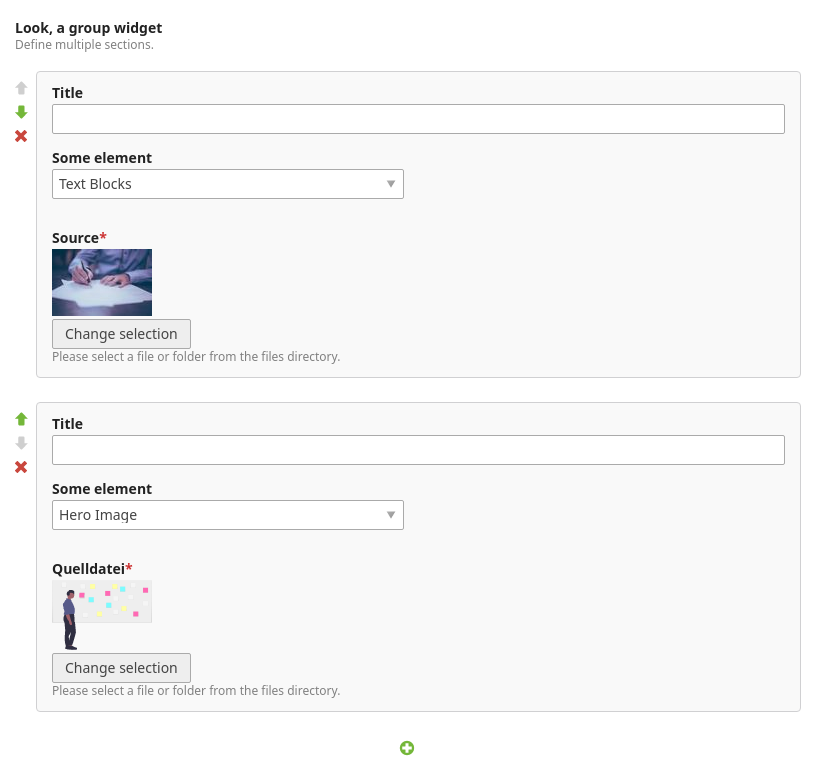
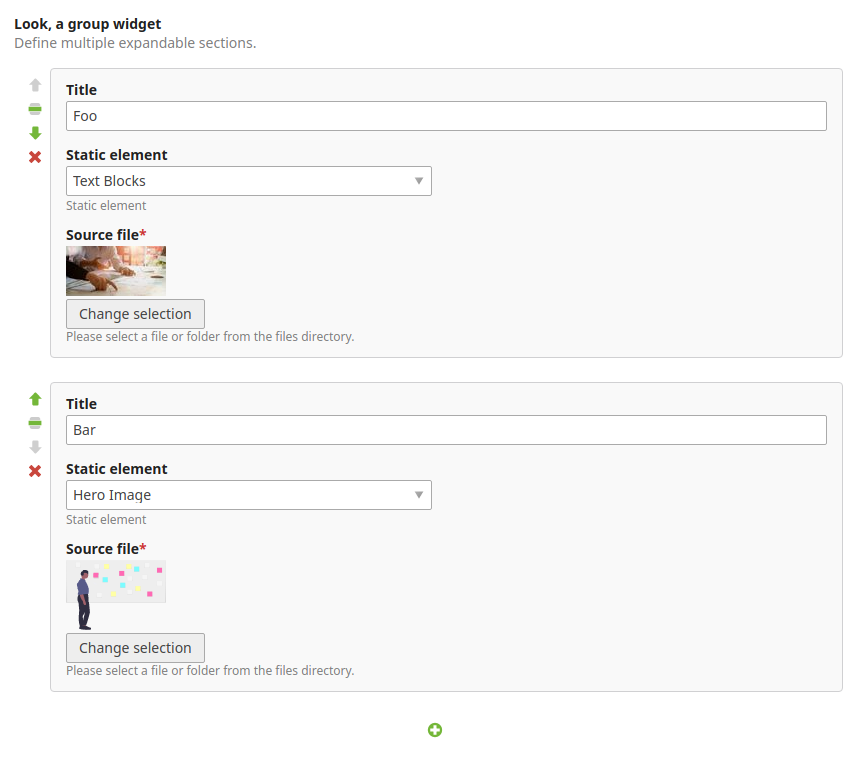
implement drag & drop

diff --git a/assets/WidgetGroup.ts b/assets/WidgetGroup.ts
@@ -14,7 +14,7 @@ export class WidgetGroup {
         this.max = Number.parseInt(elementsContainer.getAttribute('data-max'));
         this.elements = Array.from(elementsContainer.querySelectorAll('.widget-group--element'));
 
-        this.footerContainer = container.querySelector('.widget-group--footer .controls');
+        this.footerContainer = container.querySelector('.widget-group--footer');
 
         this.orderField = this.footerContainer.querySelector('input[data-order]');
     }
@@ -27,21 +27,21 @@ export class WidgetGroup {
         return Number.parseInt(el.style.order);
     }
 
-    private static setState(el: HTMLElement, state: boolean): void {
+    private static toggleAttribute(attribute: string, el: HTMLElement, state: boolean): void {
         if (state) {
-            el.removeAttribute('disabled');
+            el.setAttribute(attribute, 'true');
 
             return;
         }
 
-        el.setAttribute('disabled', 'disabled');
+        el.removeAttribute(attribute);
     }
 
     init(): void {
         this.updateElementStates();
 
         this.elements.forEach(el => {
-            const [up, down, remove, add] = this.getButtons(el);
+            const [up, down, remove, add, drag] = this.getControls(el);
 
             up.addEventListener('click', event => {
                 event.preventDefault();
@@ -70,15 +70,47 @@ export class WidgetGroup {
                 this.updateOrderTarget(true);
                 el.closest('form').submit();
             });
+
+            // Drag & drop
+            drag.addEventListener('dragstart', event => {
+                event.dataTransfer.setData('text/plain', WidgetGroup.getPosition(el).toString());
+
+                el.classList.add('drag');
+            });
+
+            drag.addEventListener('dragend', event => {
+                el.classList.remove('drag');
+            });
+
+            this.makeDroppable(
+                el.querySelector<HTMLElement>('.drop-area'),
+                event => {
+                    this.move(
+                        Number.parseInt(event.dataTransfer.getData('text/plain')),
+                        WidgetGroup.getPosition(el)
+                    );
+                }
+            );
         })
+
+        this.makeDroppable(
+            this.footerContainer.querySelector<HTMLElement>('.drop-area'),
+            event => {
+                this.move(
+                    Number.parseInt(event.dataTransfer.getData('text/plain')),
+                    this.elements.length
+                );
+            }
+        );
     }
 
-    private getButtons(el: HTMLElement): [HTMLElement, HTMLElement, HTMLElement, HTMLElement] {
+    private getControls(el: HTMLElement): [HTMLElement, HTMLElement, HTMLElement, HTMLElement, HTMLElement] {
         return [
             el.querySelector('button[data-up]'),
             el.querySelector('button[data-down]'),
             el.querySelector('button[data-remove]'),
             this.footerContainer.querySelector('button[data-add]'),
+            el.querySelector('*[data-drag]'),
         ];
     }
 
@@ -86,13 +118,18 @@ export class WidgetGroup {
         this.elements.forEach((el, index) => {
             WidgetGroup.setPosition(el, index);
 
-            const [up, down, remove, add] = this.getButtons(el);
+            const [up, down, remove, add, drag] = this.getControls(el);
             const numElements = this.elements.length;
 
-            WidgetGroup.setState(up, 0 !== index);
-            WidgetGroup.setState(down, numElements - 1 !== index);
-            WidgetGroup.setState(remove, isNaN(this.min) || numElements !== this.min);
-            WidgetGroup.setState(add, isNaN(this.max) || numElements !== this.max);
+            WidgetGroup.toggleAttribute('disabled', up, 0 === index);
+            WidgetGroup.toggleAttribute('disabled', down, numElements - 1 === index);
+            WidgetGroup.toggleAttribute('disabled', remove, isNaN(this.min) || numElements === this.min);
+            WidgetGroup.toggleAttribute('disabled', add, isNaN(this.max) || numElements === this.max);
+
+            const allowDrag = numElements > 1;
+            WidgetGroup.toggleAttribute('draggable', drag, allowDrag);
+            drag.classList.toggle('disabled', !allowDrag);
+
         });
 
         this.updateOrderTarget();
@@ -101,15 +138,52 @@ export class WidgetGroup {
     private updateOrderTarget(insertNew: boolean = false): void {
         const indices = this.elements.map(el => Number.parseInt(el.getAttribute('data-id')));
 
-        if(insertNew) {
+        if (insertNew) {
             indices.push(0);
         }
 
         this.orderField.value = indices.join(',');
     }
 
+    private makeDroppable(el: HTMLElement, onDrop: (DragEvent) => any): void {
+        el.addEventListener('dragenter', () => {
+            el.classList.add('dropping');
+        });
+
+        el.addEventListener('dragleave', () => {
+            el.classList.remove('dropping');
+        });
+
+        el.addEventListener('dragover', event => {
+            event.preventDefault();
+        });
+
+        el.addEventListener('drop', event => {
+            el.classList.remove('dropping');
+
+            onDrop(event);
+        });
+    }
+
     private swap(a: number, b: number) {
         [this.elements[a], this.elements[b]] = [this.elements[b], this.elements[a]];
+
+        this.updateElementStates();
+    }
+
+    private move(from: number, to: number) {
+        // An elements own drag handle is above, so dragging to the next index
+        // is essentially staying in place. We adjust the target accordingly
+        // when dragging down.
+        if (to > from) {
+            to--;
+        }
+
+        if (from === to) {
+            return;
+        }
+
+        this.elements.splice(to, 0, this.elements.splice(from, 1)[0])
 
         this.updateElementStates();
     }

diff --git a/public/backend.min.js b/public/backend.min.js
@@ -1,1 +1,1 @@
-!function(){"use strict";var t=function(){function t(t){var e=t.querySelector(".widget-group--container");this.min=Number.parseInt(e.getAttribute("data-min")),this.max=Number.parseInt(e.getAttribute("data-max")),this.elements=Array.from(e.querySelectorAll(".widget-group--element")),this.footerContainer=t.querySelector(".widget-group--footer .controls"),this.orderField=this.footerContainer.querySelector("input[data-order]")}return t.setPosition=function(t,e){t.style.order=e.toString()},t.getPosition=function(t){return Number.parseInt(t.style.order)},t.setState=function(t,e){e?t.removeAttribute("disabled"):t.setAttribute("disabled","disabled")},t.prototype.init=function(){var e=this;this.updateElementStates(),this.elements.forEach((function(n){var r=e.getButtons(n),o=r[0],i=r[1],a=r[2],s=r[3];o.addEventListener("click",(function(r){r.preventDefault();var o=t.getPosition(n);e.swap(o,o-1)})),i.addEventListener("click",(function(r){r.preventDefault();var o=t.getPosition(n);e.swap(o,o+1)})),a.addEventListener("click",(function(r){r.preventDefault();var o=t.getPosition(n);e.remove(o)})),s.addEventListener("click",(function(t){t.preventDefault(),e.updateOrderTarget(!0),n.closest("form").submit()}))}))},t.prototype.getButtons=function(t){return[t.querySelector("button[data-up]"),t.querySelector("button[data-down]"),t.querySelector("button[data-remove]"),this.footerContainer.querySelector("button[data-add]")]},t.prototype.updateElementStates=function(){var e=this;this.elements.forEach((function(n,r){t.setPosition(n,r);var o=e.getButtons(n),i=o[0],a=o[1],s=o[2],u=o[3],d=e.elements.length;t.setState(i,0!==r),t.setState(a,d-1!==r),t.setState(s,isNaN(e.min)||d!==e.min),t.setState(u,isNaN(e.max)||d!==e.max)})),this.updateOrderTarget()},t.prototype.updateOrderTarget=function(t){void 0===t&&(t=!1);var e=this.elements.map((function(t){return Number.parseInt(t.getAttribute("data-id"))}));t&&e.push(0),this.orderField.value=e.join(",")},t.prototype.swap=function(t,e){var n;n=[this.elements[e],this.elements[t]],this.elements[t]=n[0],this.elements[e]=n[1],this.updateElementStates()},t.prototype.remove=function(t){this.elements[t].remove(),this.elements.splice(t,1),this.updateElementStates()},t}();document.addEventListener("DOMContentLoaded",(function(){document.querySelectorAll(".widget-group").forEach((function(e){new t(e).init()}))}))}();
+!function(){"use strict";var t=function(){function t(t){var e=t.querySelector(".widget-group--container");this.min=Number.parseInt(e.getAttribute("data-min")),this.max=Number.parseInt(e.getAttribute("data-max")),this.elements=Array.from(e.querySelectorAll(".widget-group--element")),this.footerContainer=t.querySelector(".widget-group--footer"),this.orderField=this.footerContainer.querySelector("input[data-order]")}return t.setPosition=function(t,e){t.style.order=e.toString()},t.getPosition=function(t){return Number.parseInt(t.style.order)},t.toggleAttribute=function(t,e,r){r?e.setAttribute(t,"true"):e.removeAttribute(t)},t.prototype.init=function(){var e=this;this.updateElementStates(),this.elements.forEach((function(r){var n=e.getControls(r),o=n[0],i=n[1],a=n[2],s=n[3],d=n[4];o.addEventListener("click",(function(n){n.preventDefault();var o=t.getPosition(r);e.swap(o,o-1)})),i.addEventListener("click",(function(n){n.preventDefault();var o=t.getPosition(r);e.swap(o,o+1)})),a.addEventListener("click",(function(n){n.preventDefault();var o=t.getPosition(r);e.remove(o)})),s.addEventListener("click",(function(t){t.preventDefault(),e.updateOrderTarget(!0),r.closest("form").submit()})),d.addEventListener("dragstart",(function(e){e.dataTransfer.setData("text/plain",t.getPosition(r).toString()),r.classList.add("drag")})),d.addEventListener("dragend",(function(t){r.classList.remove("drag")})),e.makeDroppable(r.querySelector(".drop-area"),(function(n){e.move(Number.parseInt(n.dataTransfer.getData("text/plain")),t.getPosition(r))}))})),this.makeDroppable(this.footerContainer.querySelector(".drop-area"),(function(t){e.move(Number.parseInt(t.dataTransfer.getData("text/plain")),e.elements.length)}))},t.prototype.getControls=function(t){return[t.querySelector("button[data-up]"),t.querySelector("button[data-down]"),t.querySelector("button[data-remove]"),this.footerContainer.querySelector("button[data-add]"),t.querySelector("*[data-drag]")]},t.prototype.updateElementStates=function(){var e=this;this.elements.forEach((function(r,n){t.setPosition(r,n);var o=e.getControls(r),i=o[0],a=o[1],s=o[2],d=o[3],u=o[4],l=e.elements.length;t.toggleAttribute("disabled",i,0===n),t.toggleAttribute("disabled",a,l-1===n),t.toggleAttribute("disabled",s,isNaN(e.min)||l===e.min),t.toggleAttribute("disabled",d,isNaN(e.max)||l===e.max);var c=l>1;t.toggleAttribute("draggable",u,c),u.classList.toggle("disabled",!c)})),this.updateOrderTarget()},t.prototype.updateOrderTarget=function(t){void 0===t&&(t=!1);var e=this.elements.map((function(t){return Number.parseInt(t.getAttribute("data-id"))}));t&&e.push(0),this.orderField.value=e.join(",")},t.prototype.makeDroppable=function(t,e){t.addEventListener("dragenter",(function(){t.classList.add("dropping")})),t.addEventListener("dragleave",(function(){t.classList.remove("dropping")})),t.addEventListener("dragover",(function(t){t.preventDefault()})),t.addEventListener("drop",(function(r){t.classList.remove("dropping"),e(r)}))},t.prototype.swap=function(t,e){var r;r=[this.elements[e],this.elements[t]],this.elements[t]=r[0],this.elements[e]=r[1],this.updateElementStates()},t.prototype.move=function(t,e){e>t&&e--,t!==e&&(this.elements.splice(e,0,this.elements.splice(t,1)[0]),this.updateElementStates())},t.prototype.remove=function(t){this.elements[t].remove(),this.elements.splice(t,1),this.updateElementStates()},t}();document.addEventListener("DOMContentLoaded",(function(){document.querySelectorAll(".widget-group").forEach((function(e){new t(e).init()}))}))}();

diff --git a/public/backend.min.css b/public/backend.min.css
@@ -2,7 +2,7 @@
   display: flex;
   flex-direction: column;
   align-items: center; }
-  .widget-group .controls button {
+  .widget-group .controls > * {
     width: 24px;
     height: 24px;
     background-size: 16px 16px;
@@ -10,20 +10,31 @@
     border: none;
     border-radius: 50%;
     transition: all .1s; }
-    .widget-group .controls button:hover {
+    .widget-group .controls > *:hover {
       background-color: #f9f9f9;
       box-shadow: #d0d0d2 0 0 1px 1px; }
-    .widget-group .controls button[data-up] {
+    .widget-group .controls > *[data-up] {
       background-image: url("../../../system/themes/flexible/icons/up.svg"); }
-    .widget-group .controls button[data-down] {
+    .widget-group .controls > *[data-down] {
       background-image: url("../../../system/themes/flexible/icons/down.svg"); }
-    .widget-group .controls button[data-remove] {
+    .widget-group .controls > *[data-drag] {
+      background-image: url("../../../system/themes/flexible/icons/drag.svg"); }
+    .widget-group .controls > *[data-remove] {
       background-image: url("../../../system/themes/flexible/icons/delete.svg"); }
-    .widget-group .controls button[data-add] {
+    .widget-group .controls > *[data-add] {
       background-size: 18px 18px;
       background-image: url("../../../system/themes/flexible/icons/new.svg"); }
-    .widget-group .controls button:disabled {
+    .widget-group .controls > *:disabled, .widget-group .controls > *.disabled {
       filter: grayscale(100%) opacity(0.5); }
+
+.widget-group .drop-area::after {
+  padding-top: 10px;
+  border-bottom: 4px solid transparent;
+  display: block;
+  content: ''; }
+
+.widget-group .drop-area.dropping::after {
+  border-color: #0f1c26; }
 
 .widget-group .widget-group--header p {
   margin-top: 2px; }
@@ -49,6 +60,19 @@
     left: -30px;
     padding-right: 2px;
     padding-left: 2px; }
+  .widget-group .widget-group--element.drag {
+    opacity: .5;
+    transition: opacity .2s; }
+  .widget-group .widget-group--element .drop-area {
+    position: absolute;
+    top: -25px;
+    height: 25px;
+    left: -36px;
+    right: -1px; }
 
 .widget-group .widget-group--footer .controls {
   margin-top: 12px; }
+
+.widget-group .widget-group--footer .drop-area {
+  padding-bottom: 6px;
+  margin-top: -6px; }

diff --git a/assets/WidgetGroup.scss b/assets/WidgetGroup.scss
@@ -4,7 +4,7 @@
     flex-direction: column;
     align-items: center;
 
-    button {
+    > * {
       width: 24px;
       height: 24px;
       background-size: 16px 16px;
@@ -26,6 +26,10 @@
         background-image: url('../../../system/themes/flexible/icons/down.svg');
       }
 
+      &[data-drag] {
+        background-image: url('../../../system/themes/flexible/icons/drag.svg');
+      }
+
       &[data-remove] {
         background-image: url('../../../system/themes/flexible/icons/delete.svg');
       }
@@ -35,9 +39,22 @@
         background-image: url('../../../system/themes/flexible/icons/new.svg');
       }
 
-      &:disabled {
+      &:disabled, &.disabled {
         filter: grayscale(100%) opacity(0.5);
       }
+    }
+  }
+
+  .drop-area {
+    &::after {
+      padding-top: 10px;
+      border-bottom: 4px solid transparent;
+      display: block;
+      content: '';
+    }
+
+    &.dropping::after {
+      border-color: #0f1c26;
     }
   }
 
@@ -74,11 +91,29 @@
       padding-right: 2px;
       padding-left: 2px;
     }
+
+    &.drag {
+      opacity: .5;
+      transition: opacity .2s;
+    }
+
+    .drop-area {
+      position: absolute;
+      top: -25px;
+      height: 25px;
+      left: -36px;
+      right: -1px;
+    }
   }
 
   .widget-group--footer {
     .controls {
       margin-top: 12px;
+    }
+
+    .drop-area {
+      padding-bottom: 6px;
+      margin-top: -6px;
     }
   }
 }
